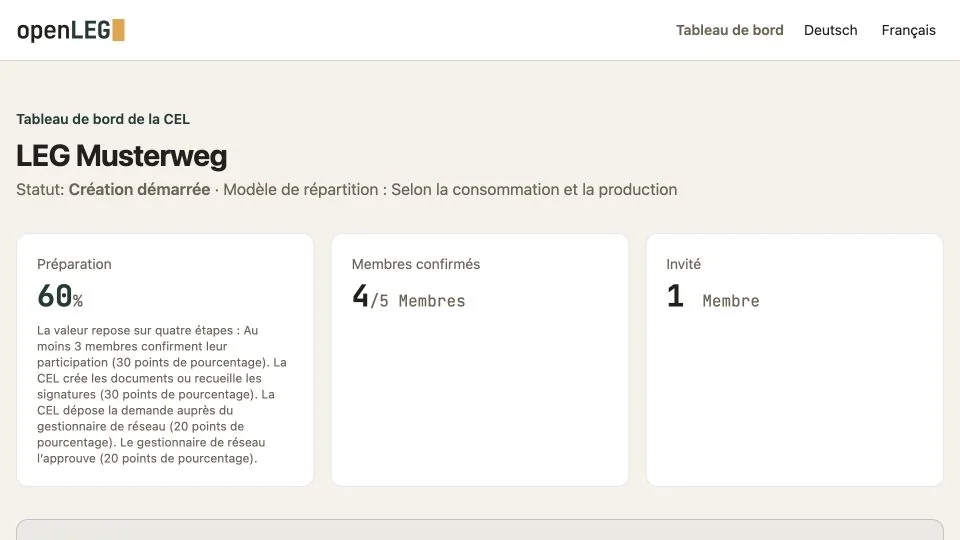
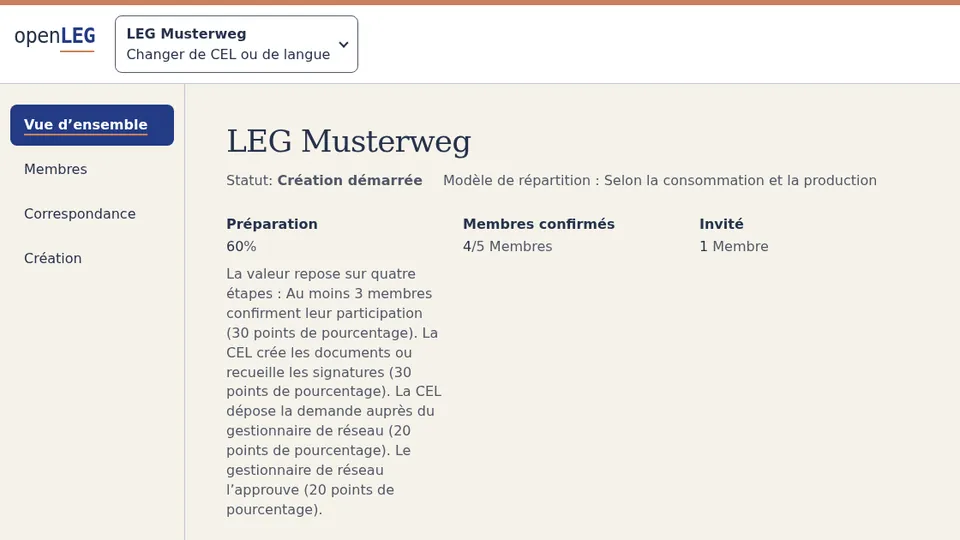
fix(site): regenerate embedded product media in the current design (#1017)
* fix(site): regenerate embedded product media

Refresh the German and Swiss French dashboard animations and stills
from the current navy design using the app's fictional demo data.

Install Playwright and its Chromium browser in the development
environment, then run python -m scripts.capture_product_media.

Closes #998

* fix(site): stabilize product media captures

Disable transitions and subpixel text rendering, and let fonts and
layout settle before taking screenshots. Frame the municipality and
formation details between sections.

Exclude the development capture script from the Docker build context.

Refs #998

* fix(site): stabilize solar dropdown captures

Launch Chromium without GPU rendering and use a CSS dropdown indicator
during capture to eliminate native border variation. Regenerate both
resident dashboard GIFs.

Refs #998

---------

diff --git a/scripts/capture_product_media.py b/scripts/capture_product_media.py
@@ -1,0 +1,209 @@
+# SPDX-License-Identifier: AGPL-3.0-or-later
+"""Refresh the public demo GIFs and stills from the repository root.
+
+In a development environment with the app requirements and Pillow installed,
+install Playwright and run `python -m playwright install chromium`. Then run
+`python -m scripts.capture_product_media`. The capture uses the checked-in
+styles and translations and serves requests through the Flask test client.
+The checked-in media were captured with Playwright 1.65.0 and Pillow 13.0.0.
+"""
+
+import os
+from io import BytesIO
+from pathlib import Path
+from unittest.mock import patch
+from urllib.parse import urlencode, urlsplit
+
+from PIL import Image
+from playwright.sync_api import sync_playwright
+
+ROOT = Path(__file__).resolve().parents[1]
+ASSET_DIR = ROOT / "static" / "images" / "product"
+ORIGIN = "http://localhost"
+DEMO_ROUTES = {
+    "resident-dashboard": "/dashboard/demo",
+    "municipality-dashboard": "/gemeinde/dashboard/demo",
+    "leg-formation": "/leg/dashboard/demo",
+}
+VIEWPORT = {"width": 1120, "height": 630}
+OUTPUT_SIZE = (960, 540)
+FRAME_DURATIONS_MS = (1100, 1100, 1100, 400)
+
+
+def serve_demo_request(route, client):
+    """Serve demo pages, their same-origin assets and the local calculator."""
+    request = route.request
+    url = urlsplit(request.url)
+    allowed_get = request.method == "GET" and (
+        url.path in DEMO_ROUTES.values()
+        or url.path.startswith("/static/")
+        or url.path == "/favicon.ico"
+    )
+    # The calculator only evaluates the numbers prefilled by the resident demo.
+    calculate = (
+        request.method == "POST"
+        and url.path == "/api/calculate_savings"
+        and urlsplit(request.headers.get("referer", "")).path
+        == DEMO_ROUTES["resident-dashboard"]
+    )
+    if f"{url.scheme}://{url.netloc}" != ORIGIN or not (allowed_get or calculate):
+        route.abort()
+        return
+
+    response = client.open(
+        url.path,
+        method=request.method,
+        query_string=url.query,
+        data=request.post_data_buffer,
+        content_type=request.headers.get("content-type"),
+    )
+    route.fulfill(
+        status=response.status_code,
+        headers=dict(response.headers),
+        body=response.get_data(),
+    )
+
+
+def open_demo(browser_page, name, locale, **query):
+    params = urlencode(dict(lang=locale, **query))
+    response = browser_page.goto(f"{ORIGIN}{DEMO_ROUTES[name]}?{params}")
+    if (
+        response is None
+        or not response.ok
+        or browser_page.locator("html").get_attribute("lang") != locale
+        or not browser_page.locator(".product-shell h1").is_visible()
+    ):
+        raise RuntimeError(f"Could not render {name} in {locale}")
+    # Chromium's native select border can vary by a few pixels between captures.
+    browser_page.add_style_tag(
+        content="""
+            *, *::before, *::after { transition: none !important; }
+            #has-solar {
+                appearance: none;
+                background-image:
+                    linear-gradient(45deg, transparent 50%, currentColor 50%),
+                    linear-gradient(135deg, currentColor 50%, transparent 50%);
+                background-position: right 10px center, right 6px center;
+                background-repeat: no-repeat;
+                background-size: 4px 4px;
+            }
+        """
+    )
+
+
+def screenshot(page, selector=None, *, top=16):
+    if selector:
+        page.locator(selector).evaluate(
+            """(element, top) => {
+                element.scrollIntoView({block: 'start', behavior: 'instant'});
+                window.scrollBy({top: -top, behavior: 'instant'});
+            }""",
+            top,
+        )
+    # Let Chromium paint the final layout after scrolling or changing a form.
+    page.evaluate(
+        """async () => {
+            await document.fonts.ready;
+            await new Promise(resolve => requestAnimationFrame(
+                () => requestAnimationFrame(resolve)
+            ));
+        }"""
+    )
+    with Image.open(BytesIO(page.screenshot(animations="disabled"))) as image:
+        return image.convert("RGB").resize(OUTPUT_SIZE, Image.Resampling.LANCZOS)
+
+
+def capture_flow(page, name, locale):
+    open_demo(page, name, locale)
+    opening = screenshot(page)
+    if name == "resident-dashboard":
+        details = screenshot(page, 'section[aria-labelledby="checks-title"]')
+        page.locator("#calc-btn").click()
+        page.locator("#savings-result").wait_for()
+        page.mouse.move(0, 0)
+        action = screenshot(page, "#savings-result", top=300)
+    elif name == "municipality-dashboard":
+        details = screenshot(page, 'section[aria-labelledby="interest-summary-title"]')
+        # Leave space to align the last row without slicing the metrics above it.
+        page.locator("main").evaluate("el => { el.style.paddingBottom = '8rem'; }")
+        action = screenshot(page, 'section[aria-labelledby="steps-title"]')
+    else:
+        details = screenshot(
+            page, "#main-content [data-leg-workspace] section:nth-of-type(2)", top=32
+        )
+        open_demo(page, name, locale, page="members")
+        action = screenshot(page)
+    return opening, details, action, opening
+
+
+def encode(frames):
+    animation = BytesIO()
+    first, *rest = (frame.quantize(colors=256) for frame in frames)
+    first.save(
+        animation,
+        format="GIF",
+        save_all=True,
+        append_images=rest,
+        duration=FRAME_DURATIONS_MS,
+    )
+    with Image.open(animation) as gif:
+        if gif.n_frames != len(frames) or animation.getbuffer().nbytes >= 5_000_000:
+            raise RuntimeError("GIF must contain four frames and stay under 5 MB")
+
+    still = BytesIO()
+    frames[0].save(still, format="WEBP", quality=80, method=6)
+    return animation.getvalue(), still.getvalue()
+
+
+def capture_all(browser):
+    # Isolate both import-time settings and requests from host credentials.
+    with patch.dict(os.environ, {"DATABASE_URL": "", "REDIS_URL": ""}, clear=True):
+        from app import create_app
+
+        app = create_app(
+            {
+                "TESTING": True,
+                "SITE_RELEASE_ENABLED": True,
+                "RATELIMIT_STORAGE_URI": "memory://",
+                "APP_BASE_URL": ORIGIN,
+            },
+            load_environment=False,
+            check_database=False,
+        )
+        client = app.test_client(use_cookies=False)
+        outputs = {}
+        for locale, directory in (("de-CH", ASSET_DIR), ("fr-CH", ASSET_DIR / "fr-CH")):
+            with browser.new_context(
+                viewport=VIEWPORT, locale=locale, service_workers="block"
+            ) as context:
+                page = context.new_page()
+                page.route("**/*", lambda route: serve_demo_request(route, client))
+                for name in DEMO_ROUTES:
+                    animation, still = encode(capture_flow(page, name, locale))
+                    outputs[directory / f"{name}.gif"] = animation
+                    outputs[directory / f"{name}-static.webp"] = still
+        return outputs
+
+
+def main():
+    """Capture both locales before replacing the checked-in media."""
+    with sync_playwright() as driver:
+        # Use software rendering to keep native form-control edges stable.
+        browser = driver.chromium.launch(
+            args=[
+                "--disable-gpu",
+                "--disable-lcd-text",
+                "--disable-font-subpixel-positioning",
+            ]
+        )
+        try:
+            outputs = capture_all(browser)
+        finally:
+            browser.close()
+    for path, data in outputs.items():
+        path.write_bytes(data)
+        print(f"{path.relative_to(ROOT)} ({len(data):,} bytes)")
+
+
+if __name__ == "__main__":
+    main()
